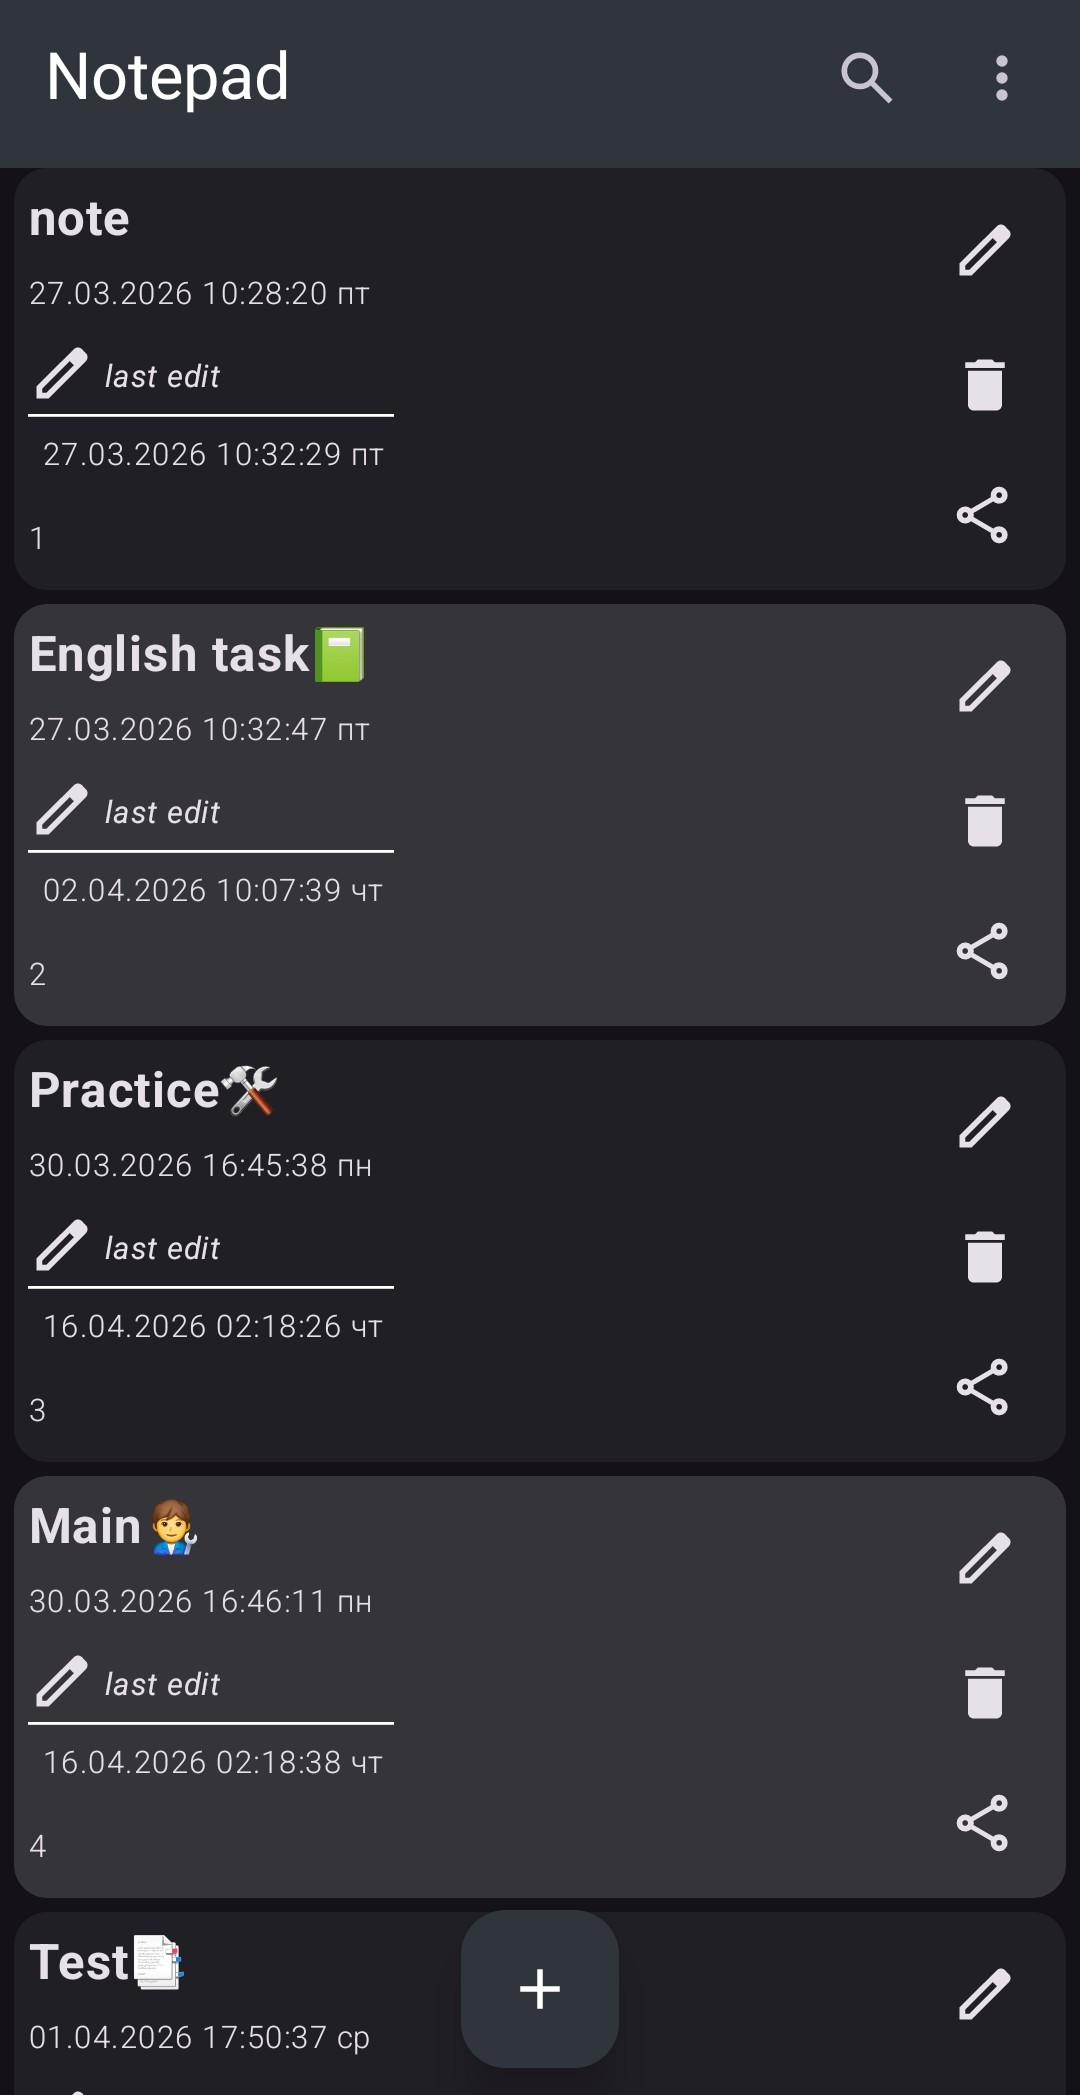
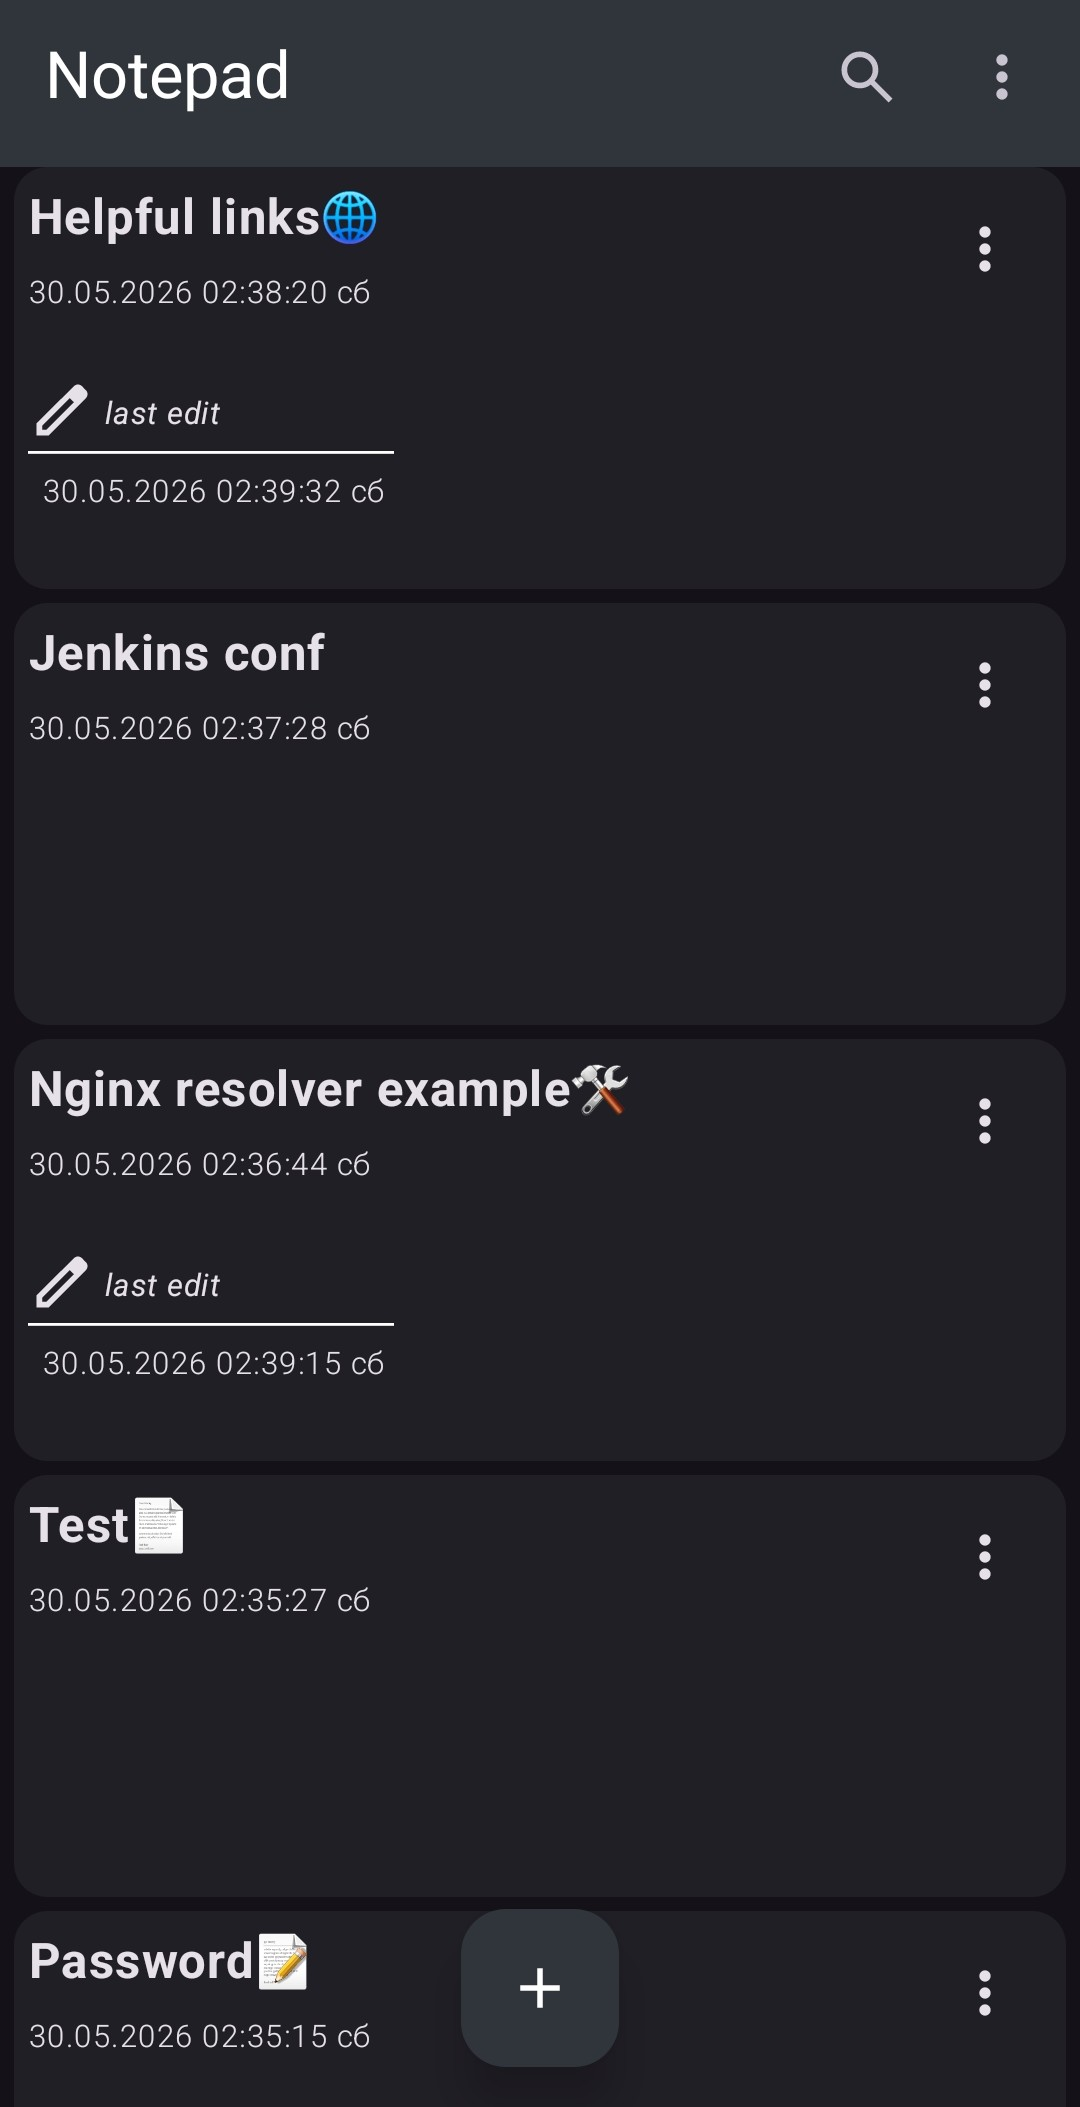
Update previews

diff --git a/README.md b/README.md
@@ -12,16 +12,19 @@ Based on *Room* and *Jetpack Compose* with **MVVM** architecture.
 <table>
     <tr>
         <td>
-            <img src="previews/preview (1).jpg">
+            <img src="previews/preview (1).jpg" alt="app preview 1">
         </td>
         <td>
-            <img src="previews/preview (2).jpg">
+            <img src="previews/preview (2).jpg" alt="app preview 2">
         </td>
         <td>
-            <img src="previews/preview (4).jpg">
+            <img src="previews/preview (4).jpg" alt="app preview 4">
         </td>
         <td>
-            <img src="previews/preview (3).jpg">
+            <img src="previews/preview (3).jpg" alt="app preview 3">
+        </td>
+        <td>
+            <img src="previews/preview (5).jpg" alt="app preview 5">
         </td>
     </tr>
 </table>
